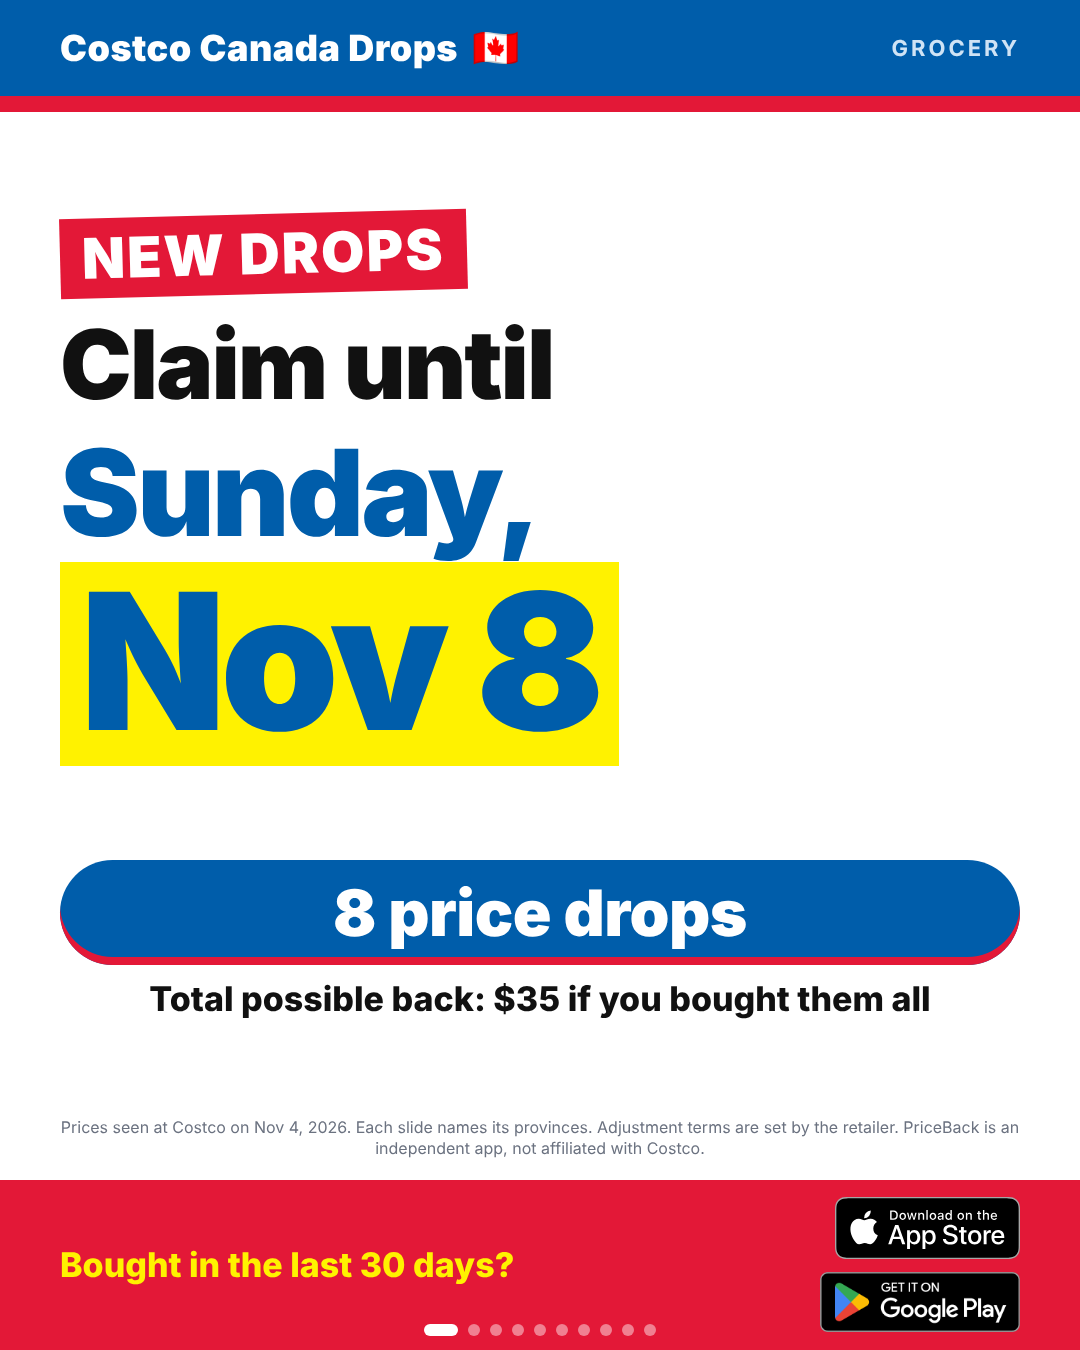
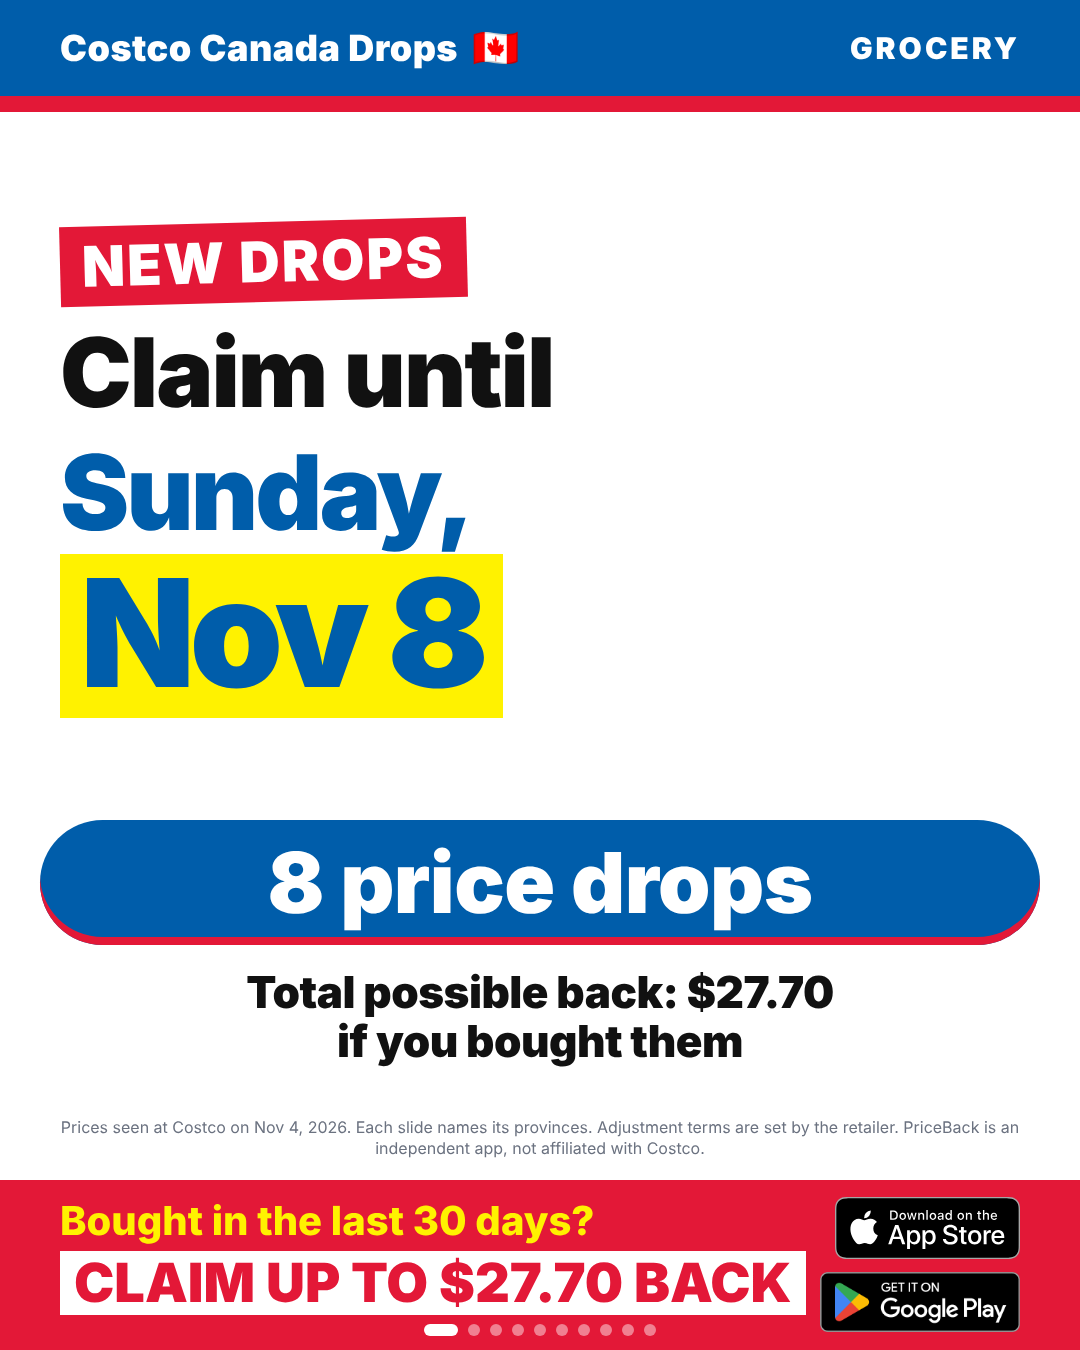
Costco grocery carousel: Monica's Nov 4 cover/footer edits, everyday-first item choice, rules
Claude-Session: https://claude.ai/code/session_01VjE6kbZomcwAZjPFvvTkSW

Changed region(s): [[0.0306, 0.1556, 0.9778, 0.8089], [0.0306, 0.8711, 0.7639, 0.9956], [0.7944, 0.0, 0.9472, 0.0622]]

diff --git a/sm-content/08-costco-price-drops/scenes/render.js b/sm-content/08-costco-price-drops/scenes/render.js
@@ -58,7 +58,8 @@ const L = {
     claim: (n) => `Claim the ${money("en", n, true)} difference.`,
     paidMany: "Bought these at full price?",
     // The conversion line, huge in the red band (Monica, 2026-11-04): only "PAID $X? CLAIM $Y BACK".
-    paidBig: (p) => `PAID ${money("en", p)}?`,
+    paidBig: (p) => `PAID ${money("en", p)}`,
+    paidWhen: " in the last 30 days?",
     claimBig: (n) => `CLAIM ${money("en", n, true)} BACK`,
     claimMany: "Claim the difference.",
     pitch: "Scan your Costco receipt. We tell you when the price drops.",
@@ -95,7 +96,8 @@ const L = {
     paid: (p) => `Payé ${money("fr", p)} ces 30 derniers jours ?`,
     claim: (n) => `Réclamez la différence de ${money("fr", n, true)}.`,
     paidMany: "Payé le plein prix ?",
-    paidBig: (p) => `PAYÉ ${money("fr", p)} ?`,
+    paidBig: (p) => `PAYÉ ${money("fr", p)}`,
+    paidWhen: " ces 30 derniers jours ?",
     claimBig: (n) => `RÉCLAMEZ ${money("fr", n, true)}`,
     claimMany: "Réclamez la différence.",
     pitch: "Scannez votre reçu Costco. On vous avertit si le prix baisse.",
@@ -245,7 +247,7 @@ function post(lang, p, photos, badges) {
   const total = items.reduce((s, [, i]) => s + i.off, 0);
   const firstExp = items.map(([, i]) => i.exp).sort()[0];
   const right = single
-    ? `${esc((items[0][1].cat || p.category)[lang]).toUpperCase()}<br>${t.exp} ${dateShort(lang, firstExp)}`
+    ? `<span class="cat">${esc((items[0][1].cat || p.category)[lang]).toUpperCase()}</span><br>${t.exp} ${dateShort(lang, firstExp)}`
     : `${esc(p.category[lang]).toUpperCase()}<br>${t.totalOff(total)}`;
   let body;
   if (single) {
@@ -265,7 +267,7 @@ function post(lang, p, photos, badges) {
   }
   const big = single && DATA.bigClaim;
   const claim = big
-    ? `<span>${esc(t.paidBig(items[0][1].regular))}</span><b>${esc(t.claimBig(items[0][1].off))}</b>`
+    ? `<span>${esc(t.paidBig(items[0][1].regular))}<small>${esc(t.paidWhen)}</small></span><b>${esc(t.claimBig(items[0][1].off))}</b>`
     : single
     ? `${t.paid(items[0][1].regular)}<br><b>${t.claim(items[0][1].off)}</b>`
     : `${t.paidMany}<br><b>${t.claimMany}</b>`;
@@ -440,7 +442,9 @@ const CC = {
     range: (ds) => ds.map((d) => dateShortCase("en", d)).join(" & ").replace(/^([A-Za-z]+) (\d+) & \1 /, "$1 $2 & "),
     count: (n) => `${n} price drop${n > 1 ? "s" : ""}`,
     bought: "Bought in the last 30 days?",
-    total: (n) => `Total possible back: ${money("en", n, true)} if you bought them all`,
+    claimUpTo: (n) => `CLAIM UP TO ${money("en", n, true)} BACK`,
+    bizOnly: "Only in Costco Business Centres",
+    total: (n) => [`Total possible back: ${money("en", n, true)}`, "if you bought them"],
   },
   fr: {
     top: "Baisses Costco Canada",
@@ -451,7 +455,9 @@ const CC = {
     range: (ds) => ds.map((d) => dateShortCase("fr", d)).join(" et ").replace(/^(\d+) ([^ ]+) et (\d+) \2$/, "$1 et $3 $2"),
     count: (n) => `${n} baisse${n > 1 ? "s" : ""} de prix`,
     bought: "Acheté ces 30 derniers jours ?",
-    total: (n) => `Total à récupérer : ${money("fr", n, true)} si vous les avez tous achetés`,
+    claimUpTo: (n) => `RÉCLAMEZ JUSQU'À ${money("fr", n, true)}`,
+    bizOnly: "Seulement dans les centres d'affaires Costco",
+    total: (n) => [`Total à récupérer : ${money("fr", n, true)}`, "si vous les avez achetés"],
   },
 };
 function claimCover(lang, f, badges) {
@@ -464,44 +470,52 @@ function claimCover(lang, f, badges) {
     : `<div class="cc-date rng">${esc(c.range(exps))}</div>`;
   const until = c.until;
   const seen = items.map(([, i]) => i.seen).sort();
+  const sum = Math.round(items.reduce((a, [, i]) => a + i.off, 0) * 100) / 100;
   const cat = (DATA.carousels[0].category || {})[lang] || "";
   const stores = `<div class="stores"><img src="${badges.apple}"><img src="${badges.google}"></div>`;
   return `<!doctype html><html lang="${lang}"><head><meta charset="utf-8"><style>${CSS}${CLAIM_CSS}</style></head><body>
   <div class="post ${lang} s cc">
     <div class="cc-top"><span>${esc(c.top)} <i class="flag">🇨🇦</i></span><b>${esc(cat).toUpperCase()}</b></div>
     <div class="stripe cc-stripe"></div>
+    ${DATA.businessCentre ? `<div class="cc-biz">${esc(c.bizOnly)}</div>` : ""}
     <div class="cc-mid">
       <div class="cc-new">${esc(c.fresh)}</div>
       <div class="cc-until">${esc(until)}</div>
       ${when}
     </div>
     <div class="cc-count">${esc(c.count(items.length))}</div>
-    <div class="cc-total">${esc(c.total(Math.round(items.reduce((a, [, i]) => a + i.off, 0) * 100) / 100))}</div>
+    <div class="cc-total">${c.total(sum).map(esc).join("<br>")}</div>
     <div class="disc">${esc(t.coverFine(seen[0], seen[seen.length - 1]))}</div>
-    <div class="claim"><div class="a cc-bought">${esc(c.bought)}</div>${stores}${dots(f.dots)}</div>
+    <div class="claim"><div class="a cc-bought">${esc(c.bought)}<b>${esc(c.claimUpTo(sum))}</b></div>${stores}${dots(f.dots)}</div>
   </div></body></html>`;
 }
 const CLAIM_CSS = `
 .cc-top{position:absolute;top:0;left:0;right:0;height:96px;background:var(--blue);display:flex;align-items:center;justify-content:space-between;padding:0 60px;color:#fff}
 .cc-top span{font-weight:900;font-size:36px;letter-spacing:.5px;display:flex;align-items:center;gap:14px}
 .cc-top .flag{font-style:normal;font-family:"Noto Color Emoji";font-size:38px}
-.cc-top b{color:#cfe3f5;font-size:22px;letter-spacing:3px}
+.cc-top b{color:#fff;font-size:30px;font-weight:900;letter-spacing:3px}
 .cc-stripe{top:96px}
-.cc-mid{position:absolute;left:60px;right:60px;top:170px;height:640px;display:flex;flex-direction:column;justify-content:center}
+.cc-mid{position:absolute;left:60px;right:60px;top:150px;height:640px;display:flex;flex-direction:column;justify-content:center}
 .cc-new{align-self:flex-start;background:var(--red);color:#fff;font-weight:900;font-size:56px;letter-spacing:2px;padding:6px 22px;transform:rotate(-1.5deg);margin-bottom:22px}
 .cc-until{color:#111;font-weight:900;font-size:96px;line-height:1;letter-spacing:-2px}
 .fr .cc-until{font-size:84px}
-.cc-day{color:var(--blue);font-weight:900;font-size:120px;line-height:1.05;letter-spacing:-3px;margin-top:18px;text-transform:capitalize}
+.cc-day{color:var(--blue);font-weight:900;font-size:104px;line-height:1.05;letter-spacing:-3px;margin-top:18px;text-transform:capitalize}
 .fr .cc-day{text-transform:none}
-.cc-date{display:inline-block;align-self:flex-start;background:var(--yel);color:var(--blue);font-weight:900;font-size:190px;line-height:1;letter-spacing:-6px;padding:4px 20px 10px;margin-top:6px;white-space:nowrap}
-.fr .cc-date{font-size:150px;letter-spacing:-5px}
+.cc-date{display:inline-block;align-self:flex-start;background:var(--yel);color:var(--blue);font-weight:900;font-size:150px;line-height:1;letter-spacing:-6px;padding:4px 20px 10px;margin-top:6px;white-space:nowrap}
+.fr .cc-date{font-size:124px;letter-spacing:-4px}
 .cc-date.rng{font-size:132px;letter-spacing:-4px;margin-top:22px}
 .fr .cc-date.rng{font-size:104px}
-.cc-count{position:absolute;left:60px;right:60px;top:860px;text-align:center;font-weight:900;font-size:64px;color:#fff;background:var(--blue);border-radius:60px;padding:14px 0;letter-spacing:-.5px;box-shadow:inset 0 -8px 0 var(--red)}
+.cc-count{position:absolute;left:40px;right:40px;top:820px;text-align:center;font-weight:900;font-size:84px;color:#fff;background:var(--blue);border-radius:70px;padding:12px 0;letter-spacing:-.5px;box-shadow:inset 0 -8px 0 var(--red)}
 .cc .disc{bottom:190px}
-.cc-total{position:absolute;left:60px;right:60px;top:978px;text-align:center;font-weight:800;font-size:34px;color:#111}
-.fr .cc-total{font-size:30px}
-.cc-bought{color:var(--yel);font-size:34px !important;font-weight:900}
+.cc-total{position:absolute;left:40px;right:40px;top:968px;text-align:center;font-weight:900;font-size:44px;color:#111;letter-spacing:-.5px}
+.fr .cc-total{font-size:40px}
+.cc-total{line-height:1.12}
+.cc-biz{position:absolute;left:0;right:0;top:112px;background:var(--yel);color:#111;text-align:center;font-weight:900;font-size:34px;letter-spacing:1px;padding:8px 0;text-transform:uppercase}
+.fr .cc-biz{font-size:28px}
+.cc-bought{color:var(--yel);font-size:40px !important;font-weight:900;line-height:1.1 !important;margin-top:-16px;white-space:nowrap}
+.fr .cc-bought{font-size:34px !important}
+.cc-bought b{display:block;width:max-content;margin-top:8px;font-size:54px;padding:2px 14px !important}
+.fr .cc-bought b{font-size:46px}
 `;
 
 const CSS = `
@@ -514,6 +528,7 @@ body{width:1080px;height:1350px;font-family:"Helvetica Neue",Arial,sans-serif}
 .band .t span{background:var(--red);padding:2px 18px;margin-left:8px}
 .fr .band .t{font-size:48px}
 .band .c{color:#cfe3f5;font-size:22px;font-weight:700;letter-spacing:3px;text-align:right;white-space:nowrap}
+.band .c .cat{color:#fff;font-size:30px;font-weight:900;letter-spacing:2px}
 .stripe{position:absolute;top:150px;left:0;right:0;height:16px;background:var(--red)}
 .photo{position:absolute;background-size:contain;background-repeat:no-repeat;background-position:center}
 .photo.hero{left:60px;right:60px;top:186px;height:430px}
@@ -559,6 +574,8 @@ body{width:1080px;height:1350px;font-family:"Helvetica Neue",Arial,sans-serif}
 .post.fr .claim .a.huge{font-size:52px}
 .claim .a.huge{text-align:left}
 .claim .a.huge span{display:block;padding:0 14px}
+.claim .a.huge small{font-size:30px;font-weight:800;letter-spacing:0}
+.post.fr .claim .a.huge small{font-size:26px}
 .claim .a.huge b{display:block;width:max-content;margin-top:8px;padding:2px 14px}
 .pb{display:flex;align-items:center;gap:12px;font-weight:900;font-size:28px;background:#fff;color:#0d3d28;padding:12px 18px;border-radius:14px;white-space:nowrap}
 .pb img{width:40px;height:40px;border-radius:10px}

diff --git a/RULES-README.md b/RULES-README.md
@@ -27,16 +27,25 @@ Deal posts are real Costco price drops with product photos. They matter more tha
   - **Group by saving end date as much as possible, and order the slides by end date** (then biggest saving first).
     One end date for the whole carousel is preferred. **More than 8 offers in a category = 2 carousels, split by
     end-date range.** A carousel is never a single item.
-  - **Only savings that started this week** (valid from the Monday of the posting week or later). A saving that
-    started earlier and is still running is not "new". **Never an item already posted** in an earlier carousel:
+  - **Only savings that started this week**: query `savings` for `valid_from` on or after the Monday of the posting
+    week **and** `created_at` on that Monday or later (Monica, 2026-11-04). A saving that started earlier and is
+    still running is not "new".
+  - **Which items first** (Monica, 2026-11-04): daily, common groceries (the most-bought staples: milk, cheese,
+    yogurt, eggs, bread, meat, canned basics, snacks families buy every week) with the highest savings. Not enough?
+    Loosen to other grocery items. Still not enough? Take smaller savings.
+  - **Business Centre and warehouse savings are never in the same carousel** (Monica, 2026-11-04): separate
+    carousels, and a Business Centre cover says "Only in Costco Business Centres" (FR "Seulement dans les
+    Centres d'entreprises Costco"); `"businessCentre": true` in the week file. **Never an item already posted** in an earlier carousel:
     check every `posts/` folder and `/mnt/project-files/marketing/costco-posts/` first.
   - **Every item slide shows province availability** (the province strip).
   - **Cover ("guard") card, exactly these 4 things in this order**, and nothing else (no swipe cue, no photo grid):
     1. "Costco Canada Drops 🇨🇦" (FR "Baisses Costco Canada 🇨🇦"): top, small.
     2. "New drops · Claim until Sunday, Nov 15": middle, HUGE. The weekday + date when every item ends the same
        day (preferred); otherwise every end date listed ("Nov 15 & 29"), never a from–to range.
-    3. The number of drops ("8 price drops"): bottom, medium.
-    4. "Bought in the last 30 days?" (FR "Acheté ces 30 derniers jours ?"): very bottom, small, yellow.
+    3. The number of drops ("8 price drops"): bottom. **Bigger than the date** (the count matters more for a
+       save; the yellow date box is slightly smaller than the pill, Monica 2026-11-04).
+    4. The red footer, bigger: "Bought in the last 30 days?" in yellow, then "CLAIM UP TO $27.70 BACK" in a
+       white box (FR "Acheté ces 30 derniers jours ?" / "RÉCLAMEZ JUSQU'À 27,70 $").
   - **The end card stays as is and is the last slide of every carousel.**
   - **Always English AND French.**
   - **Source: the `priceback.savings` table** (live, not superseded rows; source `sameday_costco` = warehouses,
@@ -48,10 +57,15 @@ Deal posts are real Costco price drops with product photos. They matter more tha
   - **Items outside the 4 categories** (apparel, electronics, toys, seasonal…) go in a separate mixed carousel.
   - **Fewer than 5 items in a carousel** → complete it with offers from the same category that started before this
     week, end on the same date, with the highest savings.
-  - **Cover total line** under the drop count: "Total possible back: $35 if you bought them all" (FR "Total à
-    récupérer : 35 $ si vous les avez tous achetés").
-  - **The red footer is the hero** on item slides, huge, and says only "PAID $26.99? CLAIM $5.50 BACK" (FR
-    "PAYÉ 26,99 $ ? RÉCLAMEZ 5,50 $"); `"bigClaim": true` in the week file. The PriceBack green banner stays.
+  - **Cover total line** under the drop count, big and bold (no "all"): "Total possible back: $27.70 / if you
+    bought them" (FR "Total à récupérer : 27,70 $ / si vous les avez achetés"), on two clean lines.
+  - **The red footer is the hero** on item slides, huge: "PAID $29.99 in the last 30 days?" then "CLAIM $6 BACK"
+    in a white box (FR "PAYÉ 29,99 $ ces 30 derniers jours ?" / "RÉCLAMEZ 6 $"); `"bigClaim": true` in the
+    week file. The PriceBack green banner stays.
+  - **The category in the top band is clearly visible** on every slide (white, bold, a bit bigger), not oversized.
+  - **French uses "vous"** and the `25,70 $` price format.
+  - **Every remark or edit Monica makes becomes a rule here** (and in STYLE.md), in the same session, without
+    being asked (Monica, 2026-11-04).
   - **Make one carousel first**, have Monica validate it, then do the rest.
   - **Images first, reel second.** Render the slides, send them to Monica, and **only after she validates the
     photos** turn each carousel into an Instagram reel (a few seconds per slide, standard transitions, music).

diff --git a/sm-content/08-costco-price-drops/STYLE.md b/sm-content/08-costco-price-drops/STYLE.md
@@ -24,7 +24,7 @@ PriceBack. **One item per image, always. A category is a carousel** (Monica, 202
 | Product photo | The official packshot, white background, trimmed and centred. **Never** a shelf photo, a blurry crop or a brand-name placeholder: no clean photo, no post. |
 | Shelf tag | A recreation of the Costco tag: item number, uppercase name, regular price, yellow `-x.xx`, `Instant Savings` + `EXP.` date, `PRICE AT REGISTER`, the big price. Serif numbers, like the real tag. |
 | Badge | Single posts only: a red circle with `-$6 OFF` (FR `-6 $ DE RABAIS`) on the tag's left. |
-| Download row | Above the fine print: the PriceBack chip, `Scan your Costco receipt. We tell you when the price drops.` / `Free on iPhone and Android` (FR `Scannez votre reçu Costco. On vous avertit si le prix baisse.` / `Gratuit sur iPhone et Android`). |
+| Download row | Above the fine print: the PriceBack chip, `Scan your Costco receipt. We tell you when the price drops.` / `Free download, with a free trial` (FR `Scannez votre reçu Costco. On vous avertit si le prix baisse.` / `Téléchargement gratuit, avec essai gratuit`; never call the app "free"). |
 | Bottom band | Red. `Paid $19.99 in the last 30 days?` / `Claim the $6 difference.`, with Apple's and Google's official download badges on the right (unaltered artwork from `../06-launch/badges/`; Google's French badge on FR, Apple's English one until `app-store-fr.svg` is added there). |
 | Fine print | Above the band, on every post: where and when the price was seen, that adjustment terms are the retailer's, and the not-affiliated line. |
 
@@ -84,7 +84,16 @@ offers per carousel, EN + FR, province strip on every item, the claim cover, the
 - Photos: Same-Day search by item number (`sameday.costco.ca/store/costco-canada/s?k=<item #>` in headless
   Chromium; search shows the store's region, so western-only items may miss) or costco.ca
   (`gdx-assets.costco.com/.../<item #>-894__1.jpg`). Check every photo by eye. No clean photo, no post.
-- Reels come only after Monica validates the slides.
+- Cover (latest, 2026-11-04): total line on two lines without "all"; "8 price drops" pill bigger than the date
+  box; red footer "Bought in the last 30 days?" + white box "CLAIM UP TO $X BACK".
+- Item slides: `"bigClaim": true` → red footer "PAID $X in the last 30 days?" + white box "CLAIM $Y BACK" (the
+  `.huge` class). Category in the top band white, bold, 30px.
+- Business Centre carousels are separate: `"businessCentre": true` adds the yellow "Only in Costco Business
+  Centres" ribbon on the cover.
+- Item choice: everyday staples with the highest savings first, then other groceries, then smaller savings. Query:
+  `valid_from` ≥ the week's Monday and `created_at` ≥ that Monday.
+- Reels come only after Monica validates the slides. Every remark Monica makes is added as a rule here and in
+  `RULES-README.md` §1.
 
 ## Rules this style keeps
 

diff --git a/sm-content/08-costco-price-drops/posts/2026-11-08-README.md b/sm-content/08-costco-price-drops/posts/2026-11-08-README.md
@@ -1,13 +1,15 @@
 # Grocery drops ending Sun Nov 8 (first carousel of the Nov 4 rebuild)
 
-Built from `priceback.savings` (Monica, 2026-11-04): new savings this week (from Nov 2), ending soonest (Nov 8),
-so this carousel goes out first. The 8 biggest Grocery savings with a clean photo, never posted before; all
-warehouse items (no Business-Centre-only province). Total possible back: $35.
+Built from `priceback.savings` (Monica, 2026-11-04): savings valid from Mon Nov 2 and created Nov 2 or later,
+ending soonest (Nov 8), so this carousel goes out first. Everyday groceries with the highest savings first, clean
+photo, never posted before; warehouse savings only (Business Centre savings get their own carousel).
+Total possible back: $27.70.
 
-BUILT Puff −$6 · KS canned chicken −$5 · Tre Stelle paneer −$4.50 · KS BellaVitano −$4 · Ritz Bits −$4 ·
-Blue Monkey −$4 · Freybe salami trio −$4 · KS mozzarella −$3.50.
+KS canned chicken −$5 (West) · KS BellaVitano −$4 (East) · Ritz Bits −$4 (East) · KS mozzarella −$3.50 (West) ·
+Khaas halal yogurt −$3.20 (ON, QC) · Laughing Cow −$3 (all provinces) · Black Diamond Cheestrings −$3 (East) ·
+Villaggio bread −$2 (West).
 
-Next in line for Nov 8 once this one is validated: the rest of Grocery, Frozen, Home, Health & Beauty and a
-mixed carousel; then Nov 15, 22 and 29. Café William Alizé (−$5) had no photo on Same-Day or costco.ca.
+Next in line for Nov 8 once this one is validated: the rest of Grocery, Frozen, Home, Health & Beauty, a mixed
+carousel and a Business Centre carousel; then Nov 15, 22 and 29. Reels only after validation.
 
 Re-render: `node sm-content/08-costco-price-drops/scenes/render.js weeks/2026-11-08-grocery.json`.
